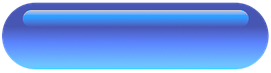
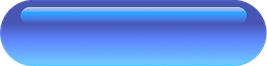
add style cm

Changed region(s): [[0.0, 0.0, 1.0, 1.0]]

diff --git a/src/App.css b/src/App.css
@@ -21,6 +21,7 @@
 
 .login-button {
   width: 165px;
+  padding: 5px;
   background-image: url(../public/img/button1.png);
   background-size: 100% 100%;
   color: #ffffff;
@@ -41,7 +42,7 @@
 }
 
 .menu {
-  padding: 25px 0;
+  padding-bottom: 25px;
   color: #8573F0;
   display: flex;
   align-items: center;
@@ -157,7 +158,7 @@
   position: absolute;
   left: 0;
   top: 0;
-  background-color: #000000;
+  background-color: #0a0038;
   color: #ffffff;
   width: 100%;
   height: 100%;
@@ -176,8 +177,7 @@
   color: #ffffff;
   background-image: url(../public/img/button1.png);
   background-size: 100% 100%;
-  padding: 0 20px;
-  height: 60px;
+  padding: 7px 20px;
   display: flex;
   justify-content: center;
   align-items: center;
@@ -185,13 +185,13 @@
   font-size: 35px;
   font-family: '000webfont';
   z-index: 1;
-  border-radius: 30px;
+  border-radius: 22px;
 }
 .buy-button:active {
   height: 58px;
 }
 .buy-button:hover {
-  box-shadow: inset 1px 5px 20px #000;
+  box-shadow: inset 1px 5px 20px rgb(23, 0, 61);
 }
 
 .table-wrap {
